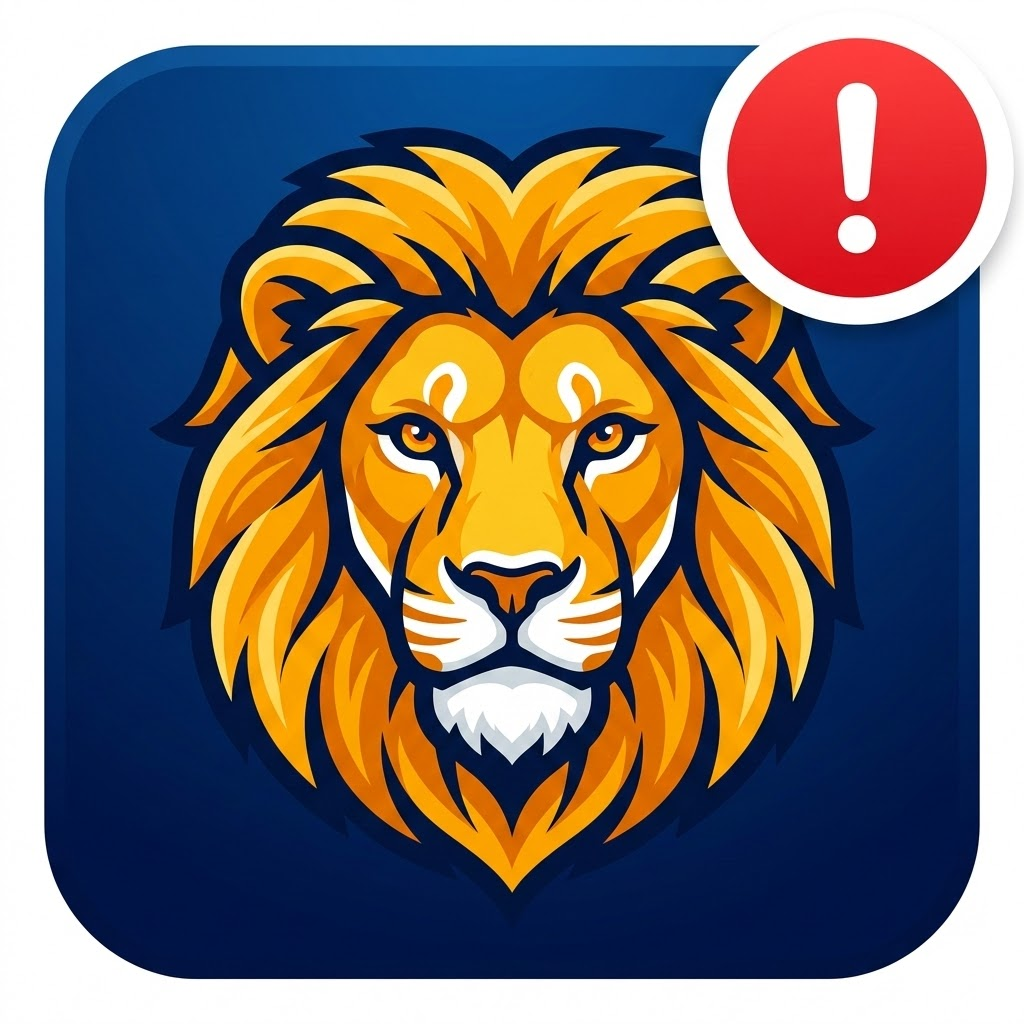
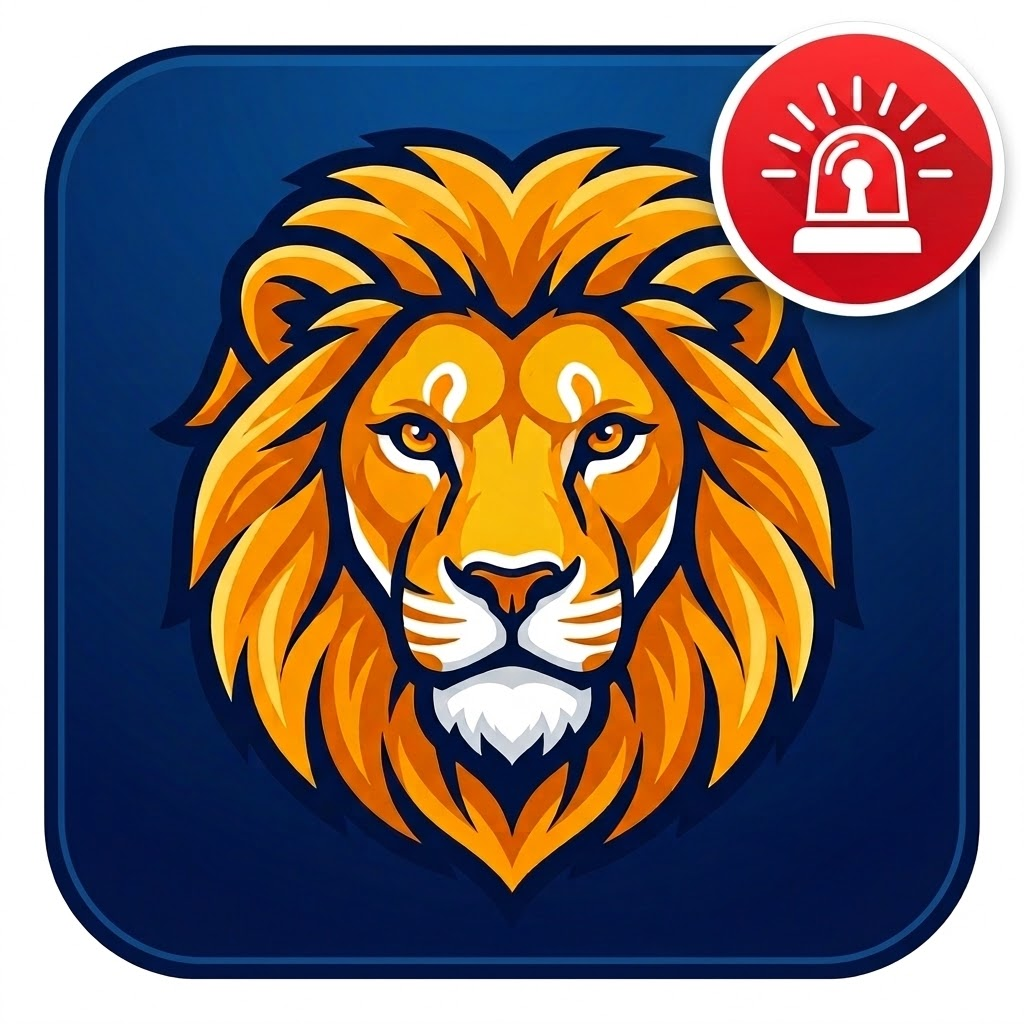
fix: UI polish — date pickers, chart labels, bar sizes
- Custom date pickers now stack below the date range select
- Chart widget titles follow document direction (RTL/LTR)
- Date picker placeholder hidden when empty (text-transparent)
- AlertChart: rotate x-axis labels -45° for >7 days, thin ticks for long ranges
- TimeOfDayChart: 6px bars at 700px height for readable density
- jest.config: exclude .worktrees from test discovery
- Update favicon and opengraph image

diff --git a/components/FilterBar.tsx b/components/FilterBar.tsx
@@ -155,50 +155,50 @@ export function FilterBar({
 
   return (
     <div className="flex flex-wrap gap-4">
-      {/* Date range */}
-      <div className="flex-1 min-w-[160px]">
-        <label className="block text-xs font-medium text-gray-500 mb-1">
-          {t('filterDateRange')}
-        </label>
-        <select
-          value={dateRange}
-          onChange={(e) => onDateRangeChange(e.target.value as DateRangeOption)}
-          className={selectClass}
-        >
-          <option value="today">{t('today')}</option>
-          <option value="7d">{t('last7days')}</option>
-          <option value="30d">{t('last30days')}</option>
-          <option value="custom">{t('custom')}</option>
-        </select>
+      {/* Date range + custom date pickers (stacked vertically) */}
+      <div className="flex-1 min-w-[160px] flex flex-col gap-2">
+        <div>
+          <label className="block text-xs font-medium text-gray-500 mb-1">
+            {t('filterDateRange')}
+          </label>
+          <select
+            value={dateRange}
+            onChange={(e) => onDateRangeChange(e.target.value as DateRangeOption)}
+            className={selectClass}
+          >
+            <option value="today">{t('today')}</option>
+            <option value="7d">{t('last7days')}</option>
+            <option value="30d">{t('last30days')}</option>
+            <option value="custom">{t('custom')}</option>
+          </select>
+        </div>
+        {dateRange === 'custom' && (
+          <div className="flex gap-2">
+            <div className="flex-1">
+              <label className="block text-xs font-medium text-gray-500 mb-1">
+                {t('filterFromDate')}
+              </label>
+              <input
+                type="date"
+                value={customFrom}
+                onChange={(e) => onCustomFromChange(e.target.value)}
+                className={`${selectClass}${customFrom ? '' : ' text-transparent'}`}
+              />
+            </div>
+            <div className="flex-1">
+              <label className="block text-xs font-medium text-gray-500 mb-1">
+                {t('filterToDate')}
+              </label>
+              <input
+                type="date"
+                value={customTo}
+                onChange={(e) => onCustomToChange(e.target.value)}
+                className={`${selectClass}${customTo ? '' : ' text-transparent'}`}
+              />
+            </div>
+          </div>
+        )}
       </div>
-
-      {/* Custom date pickers */}
-      {dateRange === 'custom' && (
-        <>
-          <div className="flex-1 min-w-[140px]">
-            <label className="block text-xs font-medium text-gray-500 mb-1">
-              {t('filterFromDate')}
-            </label>
-            <input
-              type="date"
-              value={customFrom}
-              onChange={(e) => onCustomFromChange(e.target.value)}
-              className={selectClass}
-            />
-          </div>
-          <div className="flex-1 min-w-[140px]">
-            <label className="block text-xs font-medium text-gray-500 mb-1">
-              {t('filterToDate')}
-            </label>
-            <input
-              type="date"
-              value={customTo}
-              onChange={(e) => onCustomToChange(e.target.value)}
-              className={selectClass}
-            />
-          </div>
-        </>
-      )}
 
       {/* City */}
       <div className="flex-1 min-w-[160px]">

diff --git a/components/AlertChart.tsx b/components/AlertChart.tsx
@@ -18,9 +18,26 @@ interface AlertChartProps {
   categories: AlertCategory[]
 }
 
-function CustomTick({ x, y, payload }: { x?: number; y?: number; payload?: { value: string } }) {
+function CustomTick({ x, y, payload, dense }: { x?: number; y?: number; payload?: { value: string }; dense?: boolean }) {
   if (!payload) return null
   const [dayName, dateLabel] = payload.value.split('|')
+
+  if (dense) {
+    return (
+      <g transform={`translate(${x},${y})`}>
+        <text
+          x={0} y={0} dy={4}
+          textAnchor="end"
+          fill="#9CA3AF"
+          fontSize={10}
+          transform="rotate(-45)"
+        >
+          {dateLabel}
+        </text>
+      </g>
+    )
+  }
+
   return (
     <g transform={`translate(${x},${y})`}>
       <text x={0} y={0} dy={14} textAnchor="middle" fill="#6B7280" fontSize={11}>
@@ -62,16 +79,19 @@ export function AlertChart({ data, categories }: AlertChartProps) {
     return cat ? tCategory(cat.category) : String(id)
   }
 
+  const dense = chartData.length > 7
+  const interval = chartData.length <= 30 ? 0 : Math.ceil(chartData.length / 15) - 1
+
   return (
     <ResponsiveContainer width="100%" height={320}>
-      <BarChart data={chartData} margin={{ top: 8, right: 16, left: 0, bottom: 48 }}>
+      <BarChart data={chartData} margin={{ top: 8, right: 16, left: 0, bottom: dense ? 60 : 48 }}>
         <CartesianGrid strokeDasharray="3 3" vertical={false} stroke="#E5E7EB" />
         <XAxis
           dataKey="xKey"
-          tick={<CustomTick />}
+          tick={(props) => <CustomTick {...props} dense={dense} />}
           tickLine={false}
           axisLine={{ stroke: '#E5E7EB' }}
-          interval={0}
+          interval={interval}
         />
         <YAxis
           allowDecimals={false}

diff --git a/app/page.tsx b/app/page.tsx
@@ -142,9 +142,9 @@ export default function Home() {
         </div>
 
         {/* Chart area */}
-        <div dir="ltr" className="bg-white rounded-xl border border-gray-200 p-4 shadow-sm min-h-[360px]">
+        <div className="bg-white rounded-xl border border-gray-200 p-4 shadow-sm min-h-[360px]">
           <h2 className="text-sm font-semibold text-gray-700 mb-3">{t('chartByDayTitle')}</h2>
-          <div className="flex items-center justify-center h-full">
+          <div dir="ltr" className="flex items-center justify-center h-full">
           {isLoading && (
             <div className="text-gray-400 text-sm animate-pulse">{t('loading')}</div>
           )}
@@ -166,9 +166,9 @@ export default function Home() {
         </div>
 
         {/* Time-of-day chart */}
-        <div dir="ltr" className="bg-white rounded-xl border border-gray-200 p-4 shadow-sm min-h-[320px]">
+        <div className="bg-white rounded-xl border border-gray-200 p-4 shadow-sm min-h-[320px]">
           <h2 className="text-sm font-semibold text-gray-700 mb-3">{t('chartByTimeTitle')}</h2>
-          <div className="flex items-center justify-center h-full">
+          <div dir="ltr" className="flex items-center justify-center h-full">
           {isLoading && (
             <div className="text-gray-400 text-sm animate-pulse">{t('loading')}</div>
           )}

diff --git a/components/TimeOfDayChart.tsx b/components/TimeOfDayChart.tsx
@@ -49,7 +49,7 @@ export function TimeOfDayChart({ data, categories }: TimeOfDayChartProps) {
   }
 
   return (
-    <ResponsiveContainer width="100%" height={450}>
+    <ResponsiveContainer width="100%" height={700}>
       <BarChart
         data={chartData}
         layout="vertical"
@@ -111,7 +111,7 @@ export function TimeOfDayChart({ data, categories }: TimeOfDayChartProps) {
             stackId="stack"
             fill={COLORS[i % COLORS.length]}
             radius={i === activeCatIds.length - 1 ? [0, 4, 4, 0] : [0, 0, 0, 0]}
-            maxBarSize={8}
+            maxBarSize={6}
             name={`cat_${id}`}
             tabIndex={-1}
           />

diff --git a/jest.config.ts b/jest.config.ts
@@ -9,6 +9,7 @@ const config: Config = {
   moduleNameMapper: {
     '^@/(.*)$': '<rootDir>/$1',
   },
+  testPathIgnorePatterns: ['/node_modules/', '/.worktrees/'],
 }
 
 export default createJestConfig(config)
